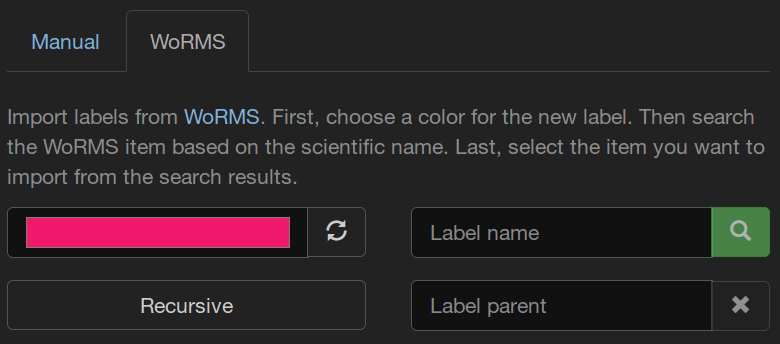
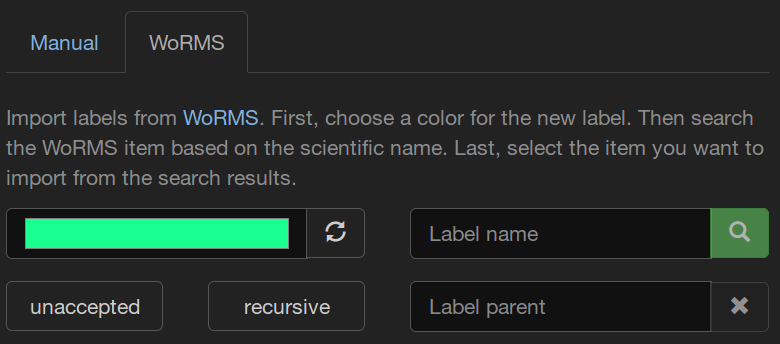
Update manual for unaccepted results of WoRMS import
Closes #27

diff --git a/src/resources/views/manual/tutorials/manage-labels.blade.php b/src/resources/views/manual/tutorials/manage-labels.blade.php
@@ -37,6 +37,10 @@
             As an alternative to create labels manually, you can import them from the <a href="http://www.marinespecies.org/">World Register of Marine Species</a>. To search for a species, enter (part of) the label name and hit enter. The list of search results will be shown below. Items that already have been imported will be highlighted in green.
         </p>
 
+        <p>
+            By default, only accepted items from WoRMS will be included in the search results. If you also want to include unaccepted results (e.g. synonyms), activate the <button class="btn btn-default btn-xs">unaccepted</button> button before you search.
+        </p>
+
         <p class="text-center">
             <a href="{{asset('vendor/label-trees/images/manual/manage_labels_3.png')}}"><img src="{{asset('vendor/label-trees/images/manual/manage_labels_3.png')}}" width="90%"></a>
         </p>
@@ -48,14 +52,14 @@
             The next option is to add a found species as a child label. Similar to creating labels manually, you first select an existing label from the label tree as parent and then click the <button class="btn btn-default btn-xs"><i class="glyphicon glyphicon-plus"></i></button> button of the species you want to import.
         </p>
         <p>
-            The last and most powerful option is the recursive import. This will import the found species and the <em>whole hierarchy</em> of parent labels from WoRMS. If you take the genus "Kolga" from the image above, for example, this would include the labels Biota, Animalia, Echinodermata, Holothuroidea, Elasipodida, Elpidiidae and Kolga! To perform a recursive import, click the <button class="btn btn-default btn-xs">Recursive</button> button first and then the <button class="btn btn-default btn-xs"><i class="glyphicon glyphicon-plus"></i></button> button of the species you want to import.
+            The last and most powerful option is the recursive import. This will import the found species and the <em>whole hierarchy</em> of parent labels from WoRMS. If you take the genus "Kolga" from the image above, for example, this would include the labels Biota, Animalia, Echinodermata, Holothuroidea, Elasipodida, Elpidiidae and Kolga! To perform a recursive import, click the <button class="btn btn-default btn-xs">recursive</button> button first and then the <button class="btn btn-default btn-xs"><i class="glyphicon glyphicon-plus"></i></button> button of the species you want to import.
         </p>
         <p>
-            The recursive import respects previously imported labels, too. Just keep the <button class="btn btn-default btn-xs">Recursive</button> button activated, import labels and they will be placed at their appropriate position in the tree.
+            The recursive import respects previously imported labels, too. Just keep the <button class="btn btn-default btn-xs">recursive</button> button activated, import labels and they will be placed at their appropriate position in the tree.
         </p>
         <div class="panel panel-info">
             <div class="panel-body text-info">
-                If you want to import only part of the hierarchy of parent labels recursively from WoRMS, you can first import the topmost item as root label (e.g. "Holothuroidea" in the example above). Then activate the <button class="btn btn-default btn-xs">Recursive</button> button and import other search results. The recursive import will now include only items up to the already existing root label.
+                If you want to import only part of the hierarchy of parent labels recursively from WoRMS, you can first import the topmost item as root label (e.g. "Holothuroidea" in the example above). Then activate the <button class="btn btn-default btn-xs">recursive</button> button and import other search results. The recursive import will now include only items up to the already existing root label.
             </div>
         </div>
 
